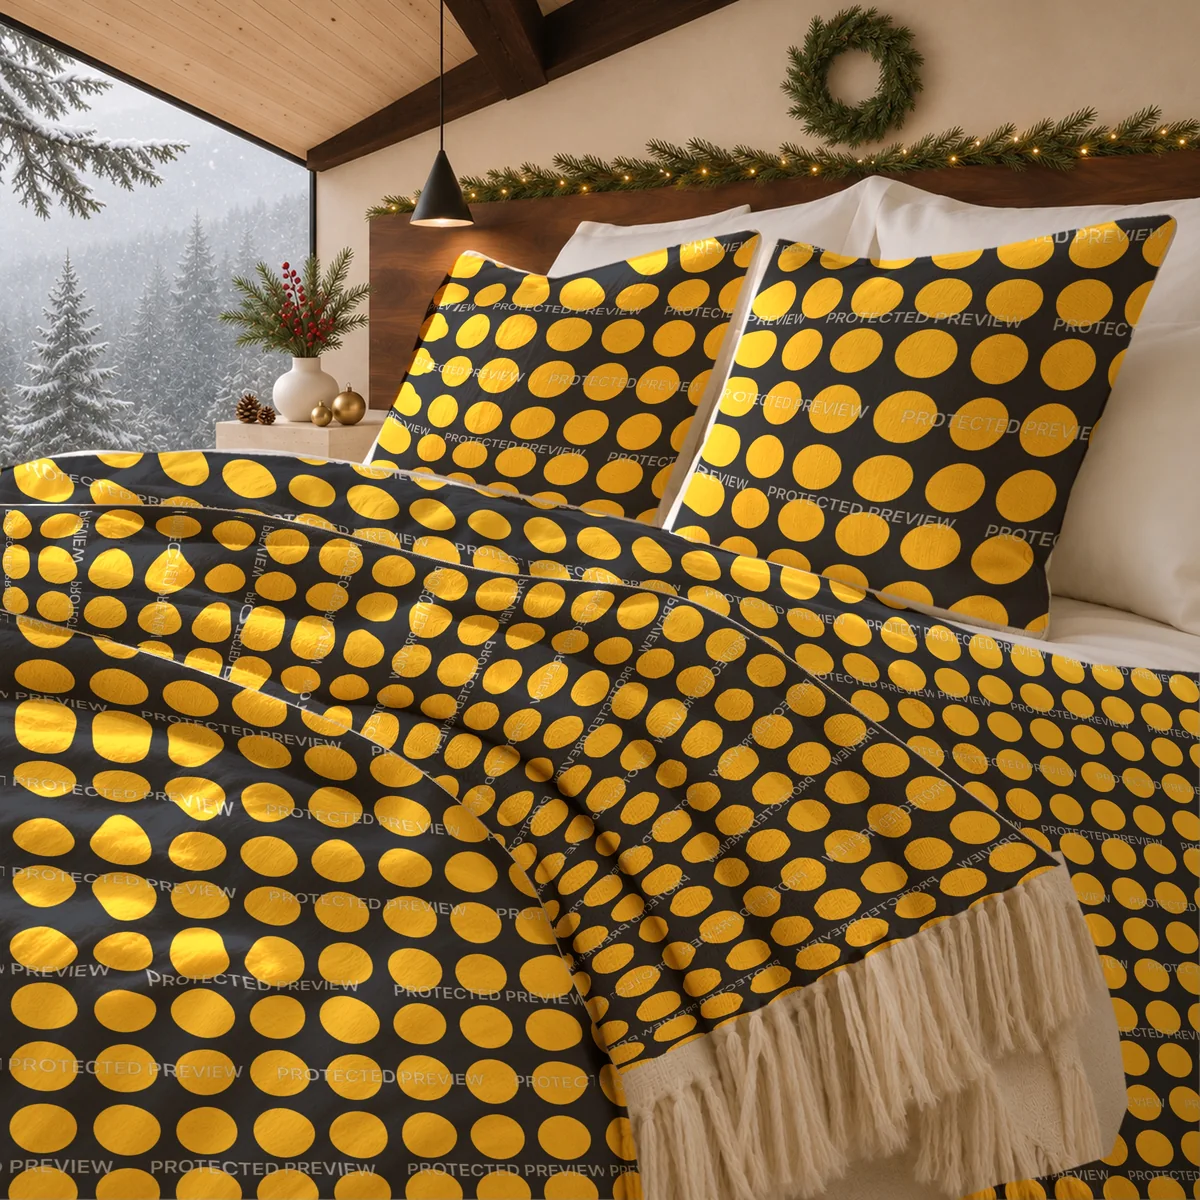
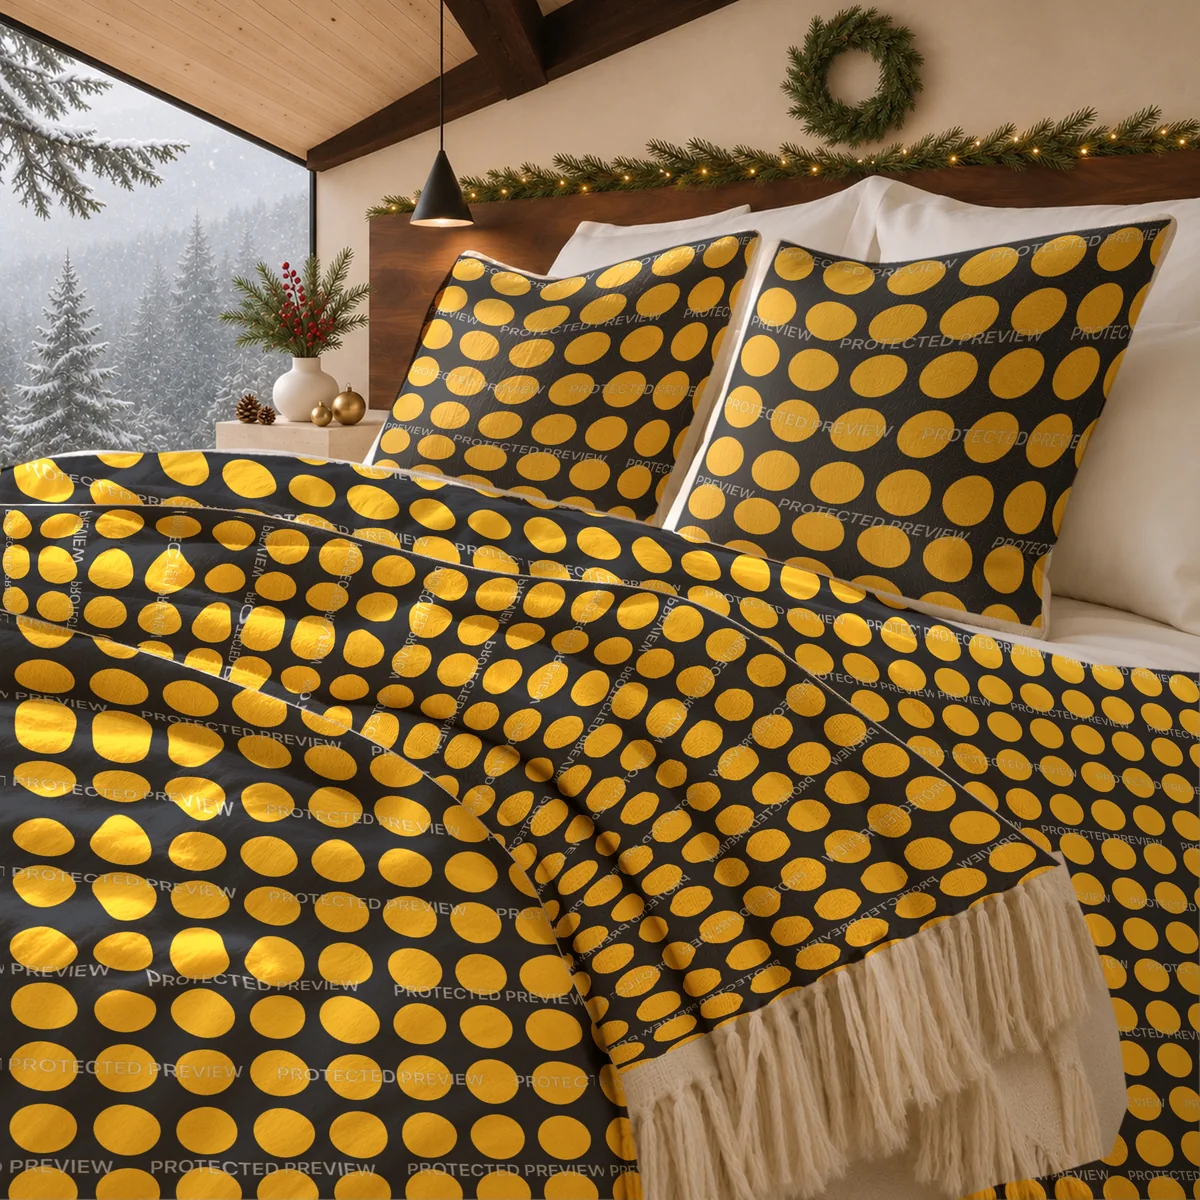
Apply approved layered pillow treatment to scene samples

Changed region(s): [[0.3083, 0.1542, 0.9867, 0.5242]]

diff --git a/index.html b/index.html
@@ -10,13 +10,13 @@
 <button type="button" data-pattern="geometric" aria-pressed="false"><span class="swatch grid" aria-hidden="true"></span>Windowpane</button></div></fieldset>
 <fieldset><legend>02 · Set the season</legend><div class="theme-options"><button type="button" data-theme="default" aria-pressed="true">Everyday</button><button type="button" data-theme="thanksgiving" aria-pressed="false">Thanksgiving</button><button type="button" data-theme="christmas" aria-pressed="false">Christmas</button></div></fieldset>
 <div class="sample-note"><p class="eyebrow">Your design, carried through</p><p>The room, textiles, and tabletop stay coordinated. The fourth image explains the digital download.</p><p class="small">Interactive gallery of pre-rendered samples made with motif’s compositor. No upload or live rendering on this website. Sample designs are demonstration artwork.</p></div>
-</div><div class="studio-preview"><button type="button" id="expand-sample" class="image-button" aria-label="Enlarge selected sample"><img id="sample-image" src="assets/samples/light-default-1.webp?v=materials3" width="2400" height="2400" loading="lazy" alt="Forest dots · Everyday · Overall room"><span class="expand-hint">View larger ↗</span></button>
+</div><div class="studio-preview"><button type="button" id="expand-sample" class="image-button" aria-label="Enlarge selected sample"><img id="sample-image" src="assets/samples/light-default-1.webp?v=pillows4" width="2400" height="2400" loading="lazy" alt="Forest dots · Everyday · Overall room"><span class="expand-hint">View larger ↗</span></button>
 <div class="preview-caption"><span id="sample-caption">Forest dots · Everyday</span><span id="view-caption">01 / Overall room</span></div>
-<div class="view-options" role="group" aria-label="Listing image"><button type="button" data-view="1" aria-pressed="true"><img src="assets/samples/light-default-1.webp?v=materials3" width="2400" height="2400" loading="lazy" alt=""><span>01 · Room</span></button><button type="button" data-view="2" aria-pressed="false"><img src="assets/samples/light-default-2.webp?v=materials3" width="2400" height="2400" loading="lazy" alt=""><span>02 · Textiles</span></button><button type="button" data-view="3" aria-pressed="false"><img src="assets/samples/light-default-3.webp?v=materials3" width="2400" height="2400" loading="lazy" alt=""><span>03 · Tabletop</span></button><button type="button" data-view="4" aria-pressed="false"><img src="assets/samples/light-default-4.webp?v=materials3" width="2400" height="2400" loading="lazy" alt=""><span>04 · Details</span></button></div>
+<div class="view-options" role="group" aria-label="Listing image"><button type="button" data-view="1" aria-pressed="true"><img src="assets/samples/light-default-1.webp?v=pillows4" width="2400" height="2400" loading="lazy" alt=""><span>01 · Room</span></button><button type="button" data-view="2" aria-pressed="false"><img src="assets/samples/light-default-2.webp?v=pillows4" width="2400" height="2400" loading="lazy" alt=""><span>02 · Textiles</span></button><button type="button" data-view="3" aria-pressed="false"><img src="assets/samples/light-default-3.webp?v=pillows4" width="2400" height="2400" loading="lazy" alt=""><span>03 · Tabletop</span></button><button type="button" data-view="4" aria-pressed="false"><img src="assets/samples/light-default-4.webp?v=pillows4" width="2400" height="2400" loading="lazy" alt=""><span>04 · Details</span></button></div>
 <p id="sample-status" role="status" class="small">Select a pattern, season, or image to explore.</p></div></div>
 <noscript><p>Enable JavaScript to switch samples. The default collection is shown above.</p></noscript>
 </section>
 <dialog id="sample-dialog" aria-label="Enlarged listing sample"><button type="button" id="close-sample">Close ×</button><img id="large-sample" alt=""><p id="large-caption"></p></dialog>
 <section id="workflow" class="workflow"><p class="eyebrow">From artwork to a reviewed draft</p><h2>One pattern.<br>A considered collection.</h2><div class="steps"><article><span>01</span><h3>Bring your artwork</h3><p>Import a finished PNG or JPEG. motif preserves the original file for the customer download.</p></article><article><span>02</span><h3>Choose a setting</h3><p>Prepare coordinated images with Default, Thanksgiving, or Christmas compositions. Reusable templates keep the layout consistent.</p></article><article><span>03</span><h3>Make it ready</h3><p>Review protected images, file information, listing details, and your own license. Save the package locally.</p></article><article><span>04</span><h3>Keep the final say</h3><p>The Etsy integration is designed to create a draft after you connect and approve. You review and publish it yourself in Etsy.</p></article></div></section>
 <section class="principles"><div><p class="eyebrow">Built around your original</p><h2>Present the design.<br>Preserve the artwork.</h2></div><div><p>AI-authored photographic templates provide the setting. A deterministic compositor places a protected copy of your pattern on the designated surfaces. It does not ask AI to redraw your artwork.</p><p>The customer receives the original artwork, your approved license, and a readme. The furniture and products pictured are illustrative applications, not physical items for sale.</p><p class="note">motif is currently in development. Live Etsy access is pending Etsy approval and service deployment. This page is not an app-store availability announcement.</p></div></section></main>
-<footer><a class="wordmark" href="./">motif</a><p>Independent software for digital artwork sellers.<br>Not affiliated with or endorsed by Etsy.</p><div><a href="privacy.html">Privacy</a><a href="https://github.com/js503/motif/issues">Contact &amp; support</a></div></footer><script src="samples.js?v=materials3" defer></script></body></html>
+<footer><a class="wordmark" href="./">motif</a><p>Independent software for digital artwork sellers.<br>Not affiliated with or endorsed by Etsy.</p><div><a href="privacy.html">Privacy</a><a href="https://github.com/js503/motif/issues">Contact &amp; support</a></div></footer><script src="samples.js?v=pillows4" defer></script></body></html>

diff --git a/samples.js b/samples.js
@@ -9,7 +9,7 @@
   const dialog = document.querySelector('#sample-dialog');
   const expand = document.querySelector('#expand-sample');
   let revision = 0;
-  const path = (view) => `assets/samples/${state.pattern}-${state.theme}-${view}.webp?v=materials3`;
+  const path = (view) => `assets/samples/${state.pattern}-${state.theme}-${view}.webp?v=pillows4`;
   async function render() {
     const current = ++revision;
     const src = path(state.view);
